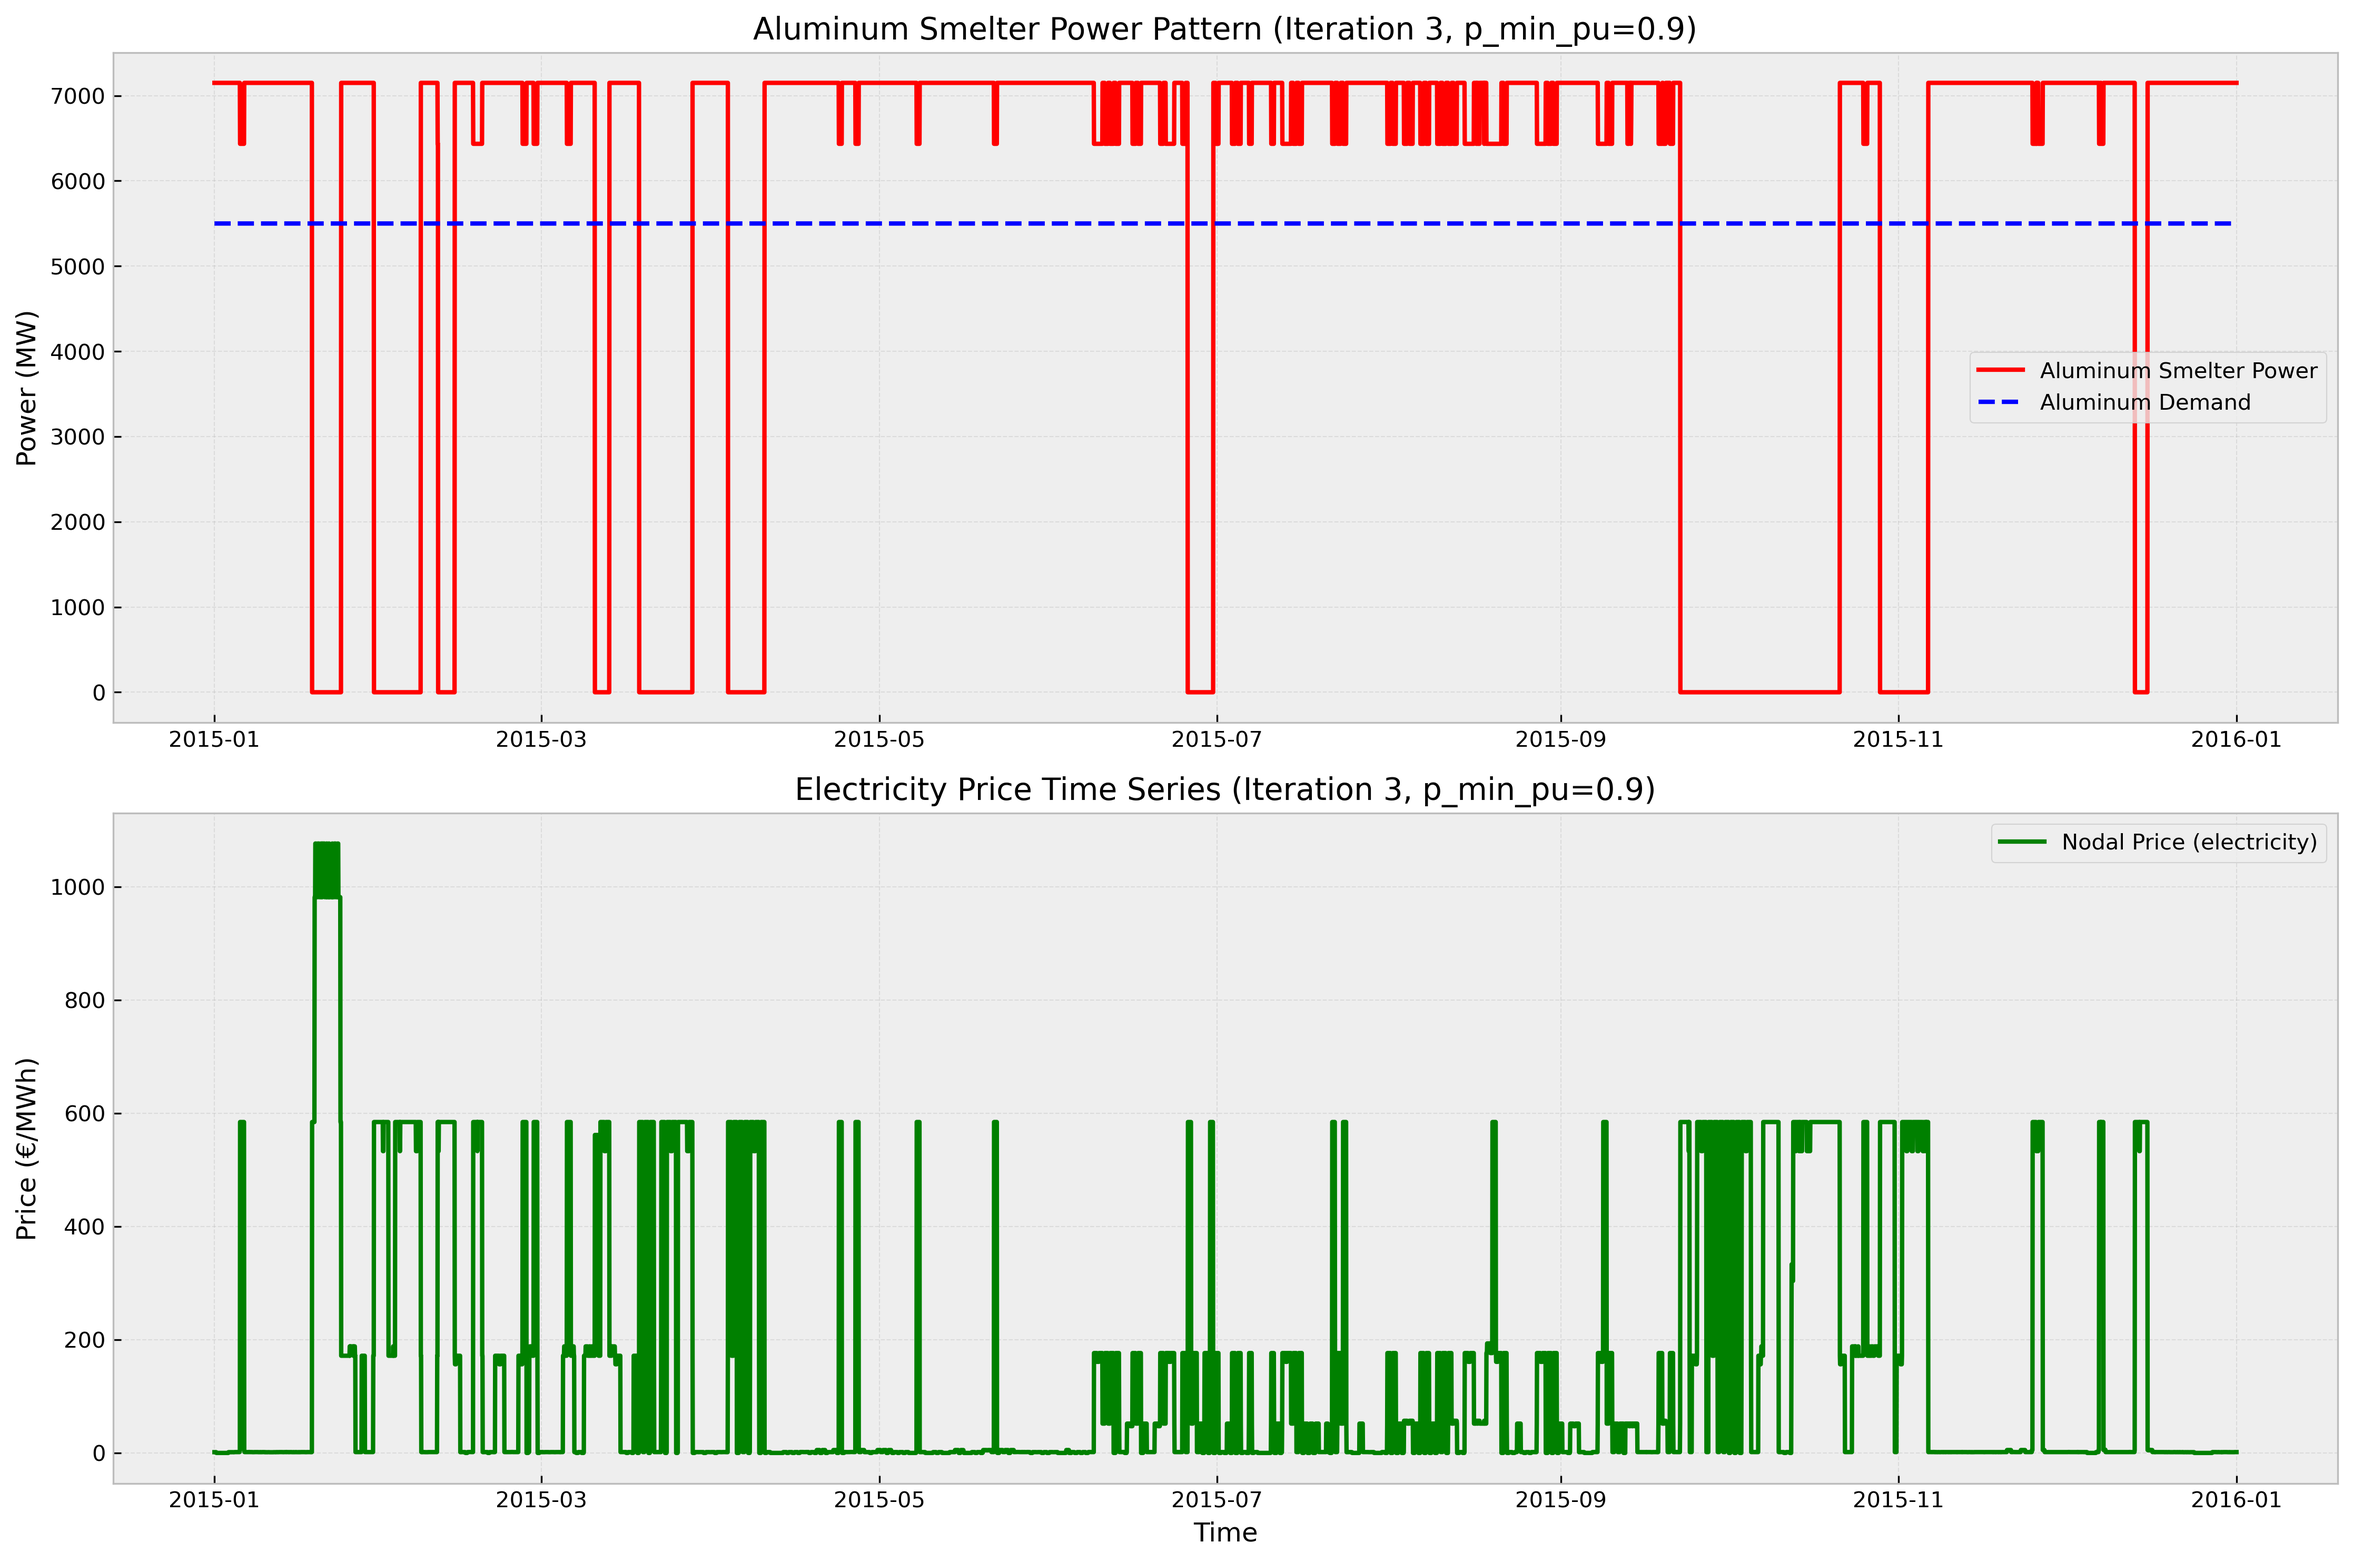
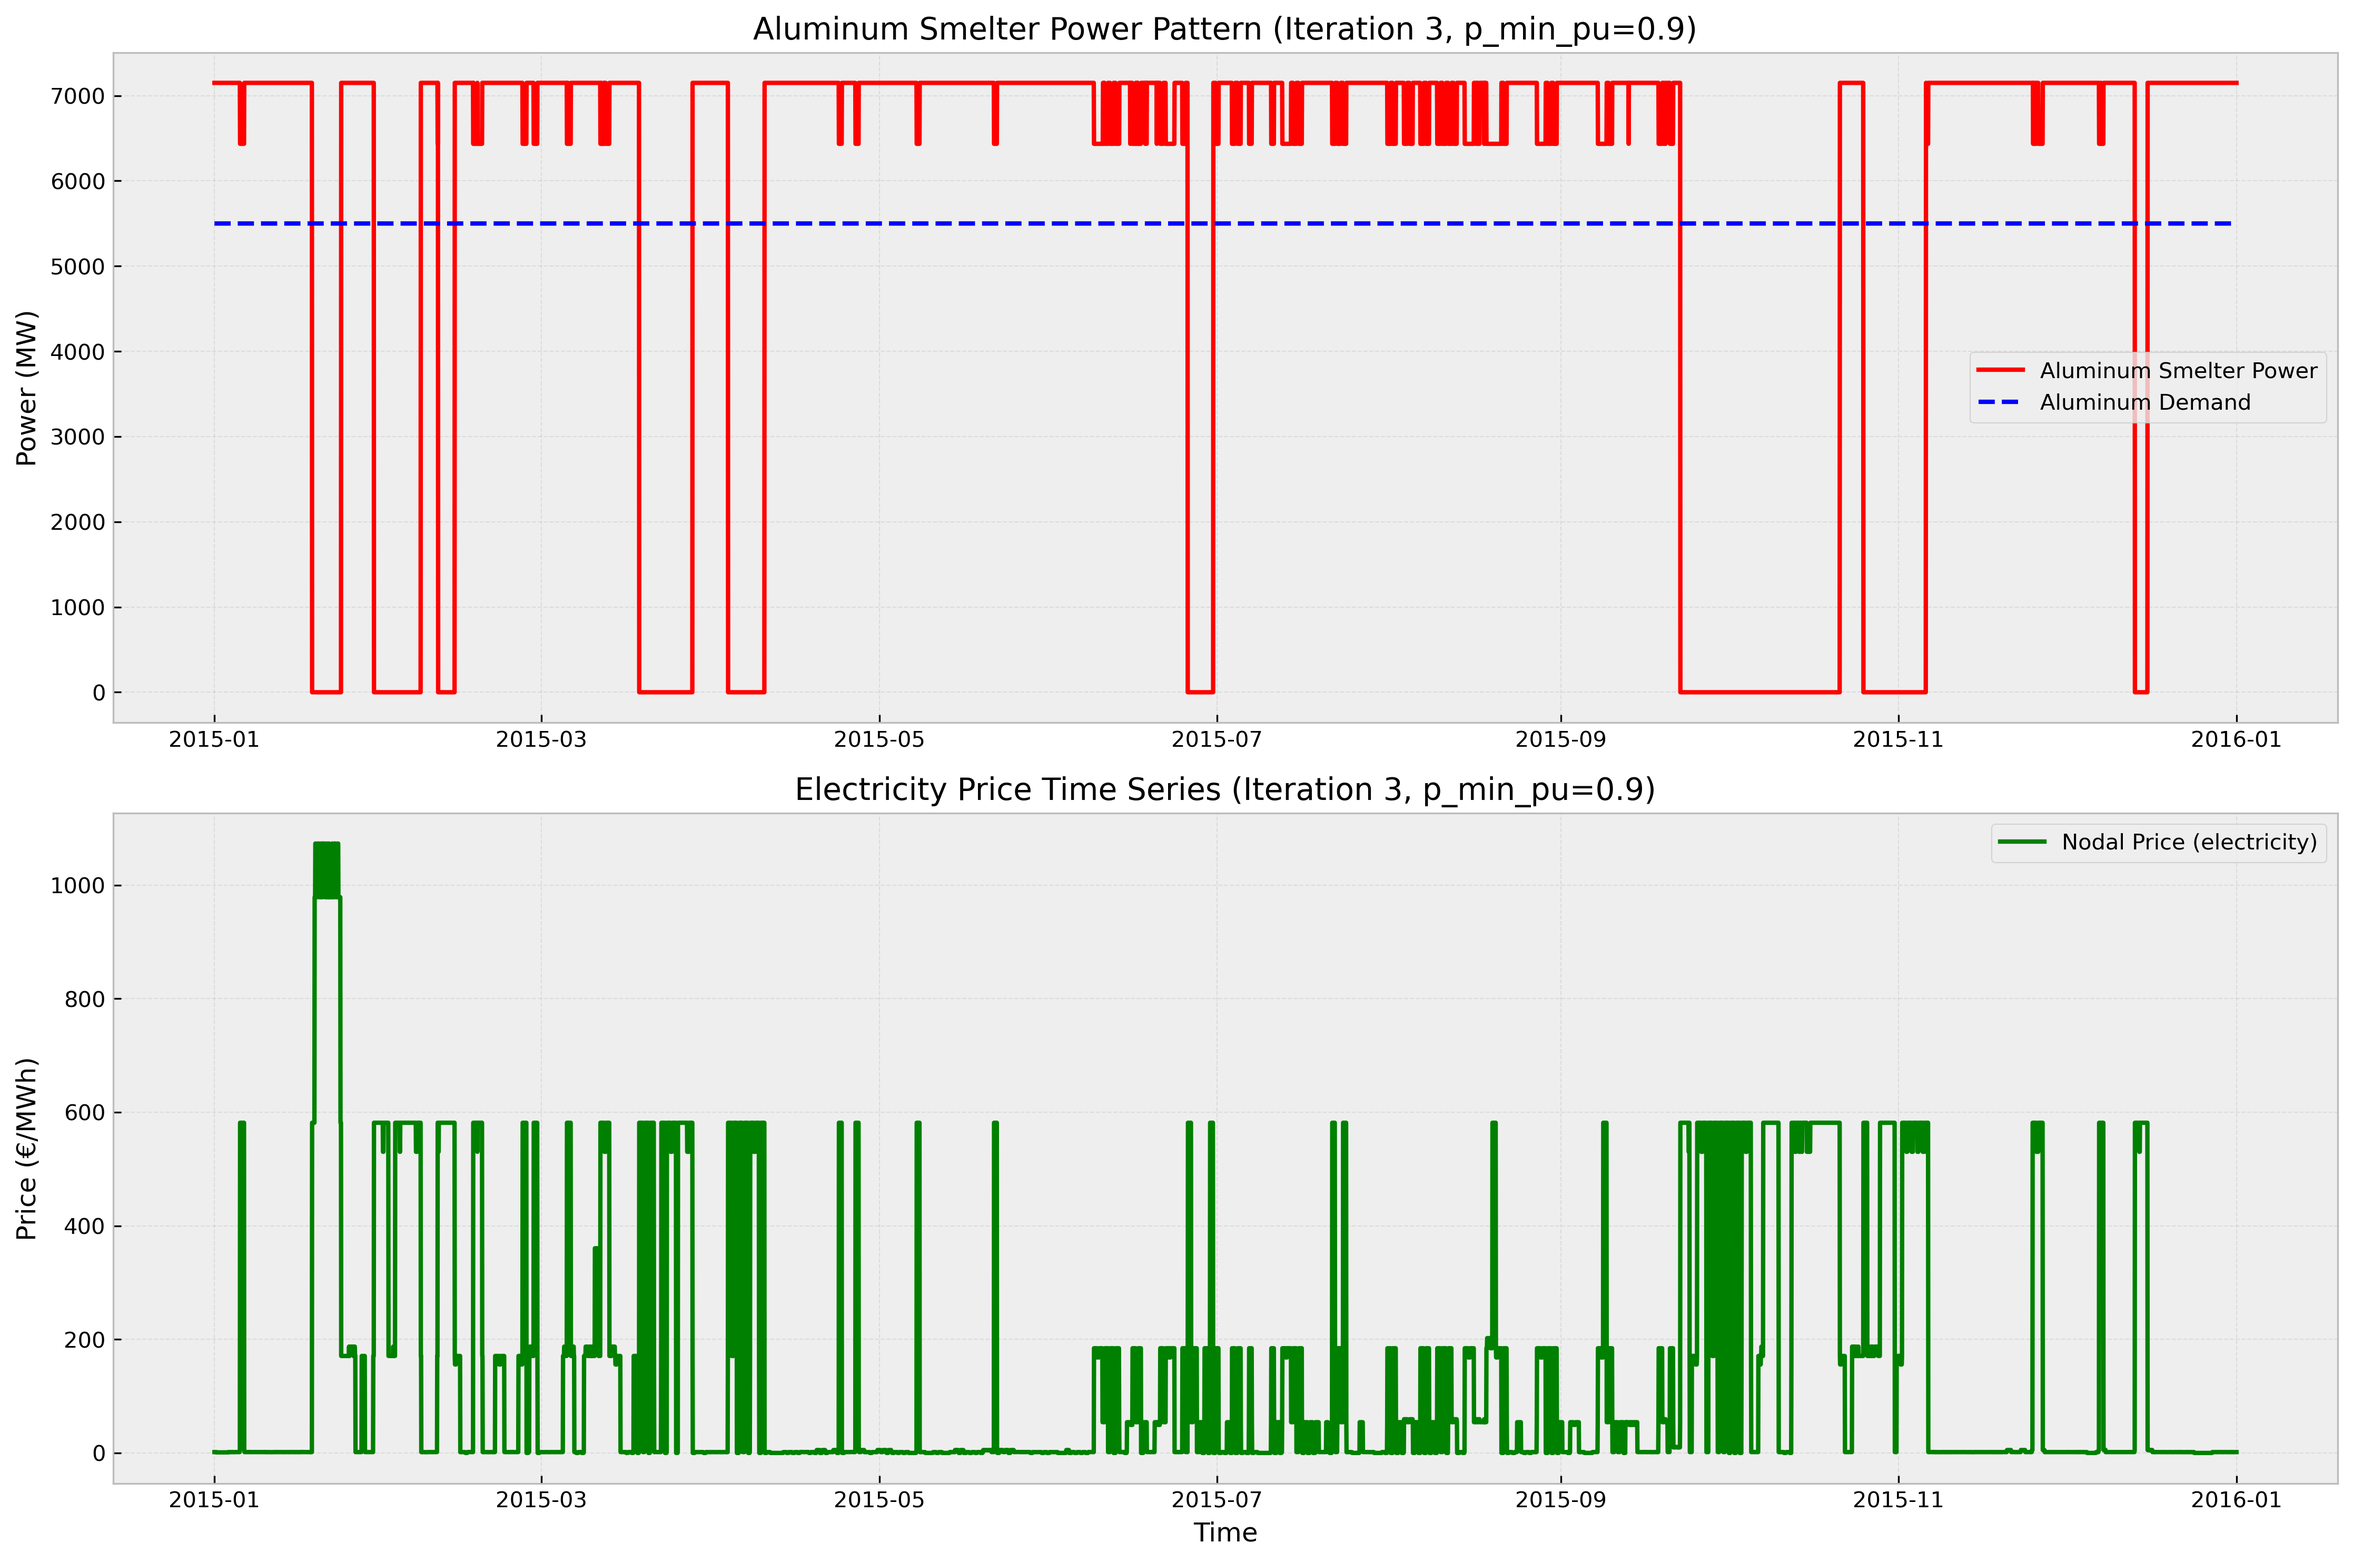
修改收敛条件为目标函数变化相对小于1%

Changed region(s): [[0.7778, 0.062, 0.8089, 0.4343], [0.2489, 0.062, 0.28, 0.4343], [0.4667, 0.062, 0.4978, 0.0931]]

diff --git a/examples/scripts/capacity_expansion_planning_aluminum_iterative.py b/examples/scripts/capacity_expansion_planning_aluminum_iterative.py
@@ -190,7 +190,7 @@ def add_aluminum_components(n, al_p_nom, p_min_pu, aluminum_commitment=False, in
             carrier="aluminum storage",
             e_nom=CONFIG["al_storage_limit"] * al_p_nom,  
             e_cyclic=True, 
-            marginal_cost_storage=CONFIG["al_marginal_cost_storage"]
+            # marginal_cost_storage=CONFIG["al_marginal_cost_storage"]
         )
     
     # 添加CO2约束（可选）
@@ -232,6 +232,33 @@ def create_network(costs, ts, p_min_pu, excess_rate, aluminum_commitment=False):
     
     # 添加电解铝相关组件
     add_aluminum_components(n, al_p_nom, p_min_pu, aluminum_commitment, verbose=True)
+    
+    # 添加切负荷发电机（如果启用）
+    if CONFIG["enable_load_shedding"]:
+        # 添加切负荷carrier
+        n.add("Carrier", "load", color="#dd2e23", nice_name="Load shedding")
+        
+        # 为电力负荷添加切负荷发电机
+        n.add(
+            "Generator",
+            "demand load",
+            bus="electricity",
+            carrier="load",
+            sign=1e-3,  # 调整单位，p和p_nom以kW为单位而不是MW
+            marginal_cost=CONFIG["load_shedding_cost"],  # 欧元/kWh
+            p_nom=1e9,  # kW，设置一个很大的容量
+        )
+        
+        # 为铝负荷添加切负荷发电机
+        n.add(
+            "Generator",
+            "al demand load",
+            bus="aluminum",
+            carrier="load",
+            sign=1e-3,  # 调整单位，p和p_nom以kW为单位而不是MW
+            marginal_cost=CONFIG["al_load_shedding_cost"],  # 欧元/kWh
+            p_nom=1e9,  # kW，设置一个很大的容量
+        )
     
     return n
 
@@ -355,7 +382,7 @@ def solve_aluminum_optimization(n, costs, ts, p_min_pu, excess_rate, nodal_price
     aluminum_usage = n_al.links_t.p0[['smelter']].copy()
     return aluminum_usage
 
-def solve_network_iterative(costs, ts, p_min_pu, excess_rate, max_iterations=10, convergence_tolerance=1e-6, verbose=True):
+def solve_network_iterative(costs, ts, p_min_pu, excess_rate, max_iterations=10, convergence_tolerance=0.01, verbose=True):
     """
     电解铝迭代优化算法
     1. 使用连续化电解铝模型求解，得到节点电价
@@ -363,7 +390,7 @@ def solve_network_iterative(costs, ts, p_min_pu, excess_rate, max_iterations=10,
     3. 固定电解铝用能，求解剩下的优化问题
     4. 重复2-3，直到收敛
     
-    收敛条件：全年电价变化的绝对值的平均值小于convergence_tolerance
+    收敛条件：目标函数变化的相对值小于convergence_tolerance（默认1%）
     
     参数:
     verbose: 是否输出详细信息
@@ -374,9 +401,9 @@ def solve_network_iterative(costs, ts, p_min_pu, excess_rate, max_iterations=10,
     # 记录总开始时间
     total_start_time = time.time()
     
-    # 初始化电解铝用能模式和电价
+    # 初始化电解铝用能模式和目标函数值
     aluminum_usage = None
-    previous_nodal_prices = None
+    previous_objective = None
     iteration = 0
     final_network = None
     final_aluminum_usage = None
@@ -413,9 +440,9 @@ def solve_network_iterative(costs, ts, p_min_pu, excess_rate, max_iterations=10,
         if verbose:
             print("求解网络...")
         # 使用安全的优化函数，确保计算边际价格
-        safe_optimize(n, "gurobi", {})
+        current_objective = safe_optimize(n, "gurobi", {})
         
-        # 提取当前迭代的节点电价
+        # 提取当前迭代的节点电价（用于电解铝优化）
         current_nodal_prices = None
         if hasattr(n, 'buses_t') and hasattr(n.buses_t, 'marginal_price'):
             electricity_buses = [bus for bus in n.buses.index if bus == "electricity"]
@@ -425,51 +452,38 @@ def solve_network_iterative(costs, ts, p_min_pu, excess_rate, max_iterations=10,
                 if verbose:
                     print(f"提取节点电价: {price_bus}")
         
-        # 在每次迭代后绘制当前的电价和电解铝用能
-        if aluminum_usage is not None:
-            x=1
-            # plot_iteration_results(n, aluminum_usage, ts, p_min_pu, iteration, "Fixed Aluminum Usage")
-        else:
-            # 第一次迭代，从优化结果中读取电解槽功率
-            aluminum_usage = n.links_t.p0[['smelter']].copy()
-            # plot_iteration_results(n, aluminum_usage, ts, p_min_pu, iteration, "Initial")
-        
         # 步骤2: 基于节点电价，运行电解铝最优运行问题
         new_aluminum_usage = solve_aluminum_optimization(n, costs, ts, p_min_pu, excess_rate, current_nodal_prices, verbose)
         
-        if new_aluminum_usage is None:
-            if verbose:
-                print("电解铝优化问题求解失败")
-            break
-        
-        # 步骤3: 检查收敛性 - 基于电价变化的绝对值的平均值
-        if previous_nodal_prices is not None and current_nodal_prices is not None:
-            # 计算电价变化的绝对值的平均值
-            price_change = np.abs(current_nodal_prices - previous_nodal_prices)
-            avg_price_change = price_change.mean()
-            max_price_change = price_change.max()
+        # 步骤3: 检查收敛性 - 基于目标函数变化的相对值
+        if previous_objective is not None and current_objective is not None:
+            # 计算目标函数变化的相对值
+            objective_change = abs(current_objective - previous_objective)
+            relative_change = objective_change / abs(previous_objective) if abs(previous_objective) > 1e-10 else float('inf')
             
             if verbose:
-                print(f"电价变化统计:")
-                print(f"  平均变化: {avg_price_change:.6f}")
-                print(f"  最大变化: {max_price_change:.6f}")
-                print(f"  收敛阈值: {convergence_tolerance:.6f}")
+                print(f"目标函数变化统计:")
+                print(f"  当前目标函数值: {current_objective:.6e}")
+                print(f"  上次目标函数值: {previous_objective:.6e}")
+                print(f"  绝对变化: {objective_change:.6e}")
+                print(f"  相对变化: {relative_change:.6f} ({relative_change*100:.2f}%)")
+                print(f"  收敛阈值: {convergence_tolerance:.6f} ({convergence_tolerance*100:.2f}%)")
             
-            if avg_price_change < convergence_tolerance:
+            if relative_change < convergence_tolerance:
                 if verbose:
                     print(f"算法收敛，在第 {iteration} 次迭代后停止")
-                    print(f"电价平均变化 {avg_price_change:.6f} < 收敛阈值 {convergence_tolerance:.6f}")
+                    print(f"目标函数相对变化 {relative_change:.6f} ({relative_change*100:.2f}%) < 收敛阈值 {convergence_tolerance:.6f} ({convergence_tolerance*100:.2f}%)")
                 final_network = n
                 final_aluminum_usage = new_aluminum_usage
                 break
         else:
-            # 第一次迭代，保存电价用于下次比较
-            if current_nodal_prices is not None:
-                previous_nodal_prices = current_nodal_prices.copy()
+            # 第一次迭代，保存目标函数值用于下次比较
+            if current_objective is not None:
+                previous_objective = current_objective
         
-        # 更新电解铝用能和电价
+        # 更新电解铝用能和目标函数值
         aluminum_usage = new_aluminum_usage
-        previous_nodal_prices = current_nodal_prices.copy() if current_nodal_prices is not None else None
+        previous_objective = current_objective
         final_network = n
         final_aluminum_usage = new_aluminum_usage
         
@@ -560,11 +574,7 @@ def print_results_table(results):
     
     if total_times:
         print(f"总计算时间: {sum(total_times):.2f} 秒 ({sum(total_times)/60:.2f} 分钟)")
-        print(f"平均每次优化时间: {np.mean(total_times):.2f} 秒")
-        print(f"最快优化时间: {np.min(total_times):.2f} 秒")
-        print(f"最慢优化时间: {np.max(total_times):.2f} 秒")
         print(f"总迭代次数: {sum(total_iterations)}")
-        print(f"平均迭代次数: {np.mean(total_iterations):.1f}")
 
 def main(config_file="config.yaml"):
     """主运行函数"""

diff --git a/examples/scripts/config.py b/examples/scripts/config.py
@@ -11,7 +11,7 @@ CONFIG = {
     "al_excess_rate": 0.3,  # 铝过剩率
     
     # 切负荷设置
-    "enable_load_shedding": False,  # 是否启用切负荷
+    "enable_load_shedding": True,  # 是否启用切负荷
     "load_shedding_cost": 1e2,  # 普通负荷切负荷成本（欧元/kWh）
     "al_load_shedding_cost": 1e3,  # 铝负荷切负荷成本（欧元/kWh）
     
@@ -39,7 +39,7 @@ CONFIG = {
     
     # 迭代优化参数
     "max_iterations": 10,
-    "convergence_tolerance": 10,
+    "convergence_tolerance": 0.01,  # 目标函数相对变化收敛阈值（1%）
     "verbose": True,
     
     # 默认成本
